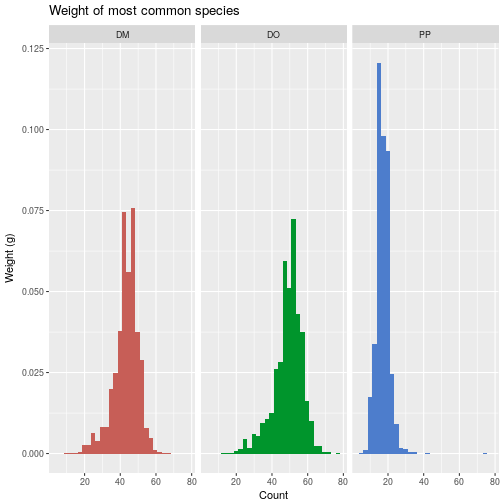
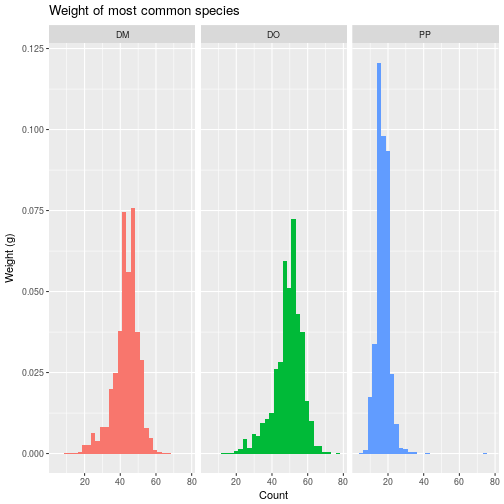
commit by make

Changed region(s): [[0.4464, 0.4167, 0.6548, 0.9226], [0.7143, 0.119, 0.8333, 0.9226], [0.1488, 0.4167, 0.3274, 0.9226]]

diff --git a/docs/_slides/facet.md b/docs/_slides/facet.md
@@ -49,18 +49,14 @@ ggplot(data = animals_common,
 
 ===
 
-Finally, let's show off some additional styling and the very unusual `..density..` argument in the aesthetic.
-The `..` notation signifies that ggplot is to calculate the probability density, rather than plot frequency as before.
+Finally, let's show off some additional styling with `fill` and the very unusual `..density..` argument in the aesthetic.
+The `..` notation is shared by several ggplot functions that perform calculation, in this case the probability density rather than the frequency used before.
 
 
 ~~~r
 ggplot(data = animals_common,
        aes(x = weight, fill = species_id)) +
-  geom_histogram(data = select(animals_common, -month),
-                 aes(y = ..density..),
-                 fill = "black") +
-  geom_histogram(aes(y = ..density..),
-                 alpha = 0.8) +
+  geom_histogram(aes(y = ..density..)) +
   facet_wrap( ~ species_id) +
   labs(title = "Weight of most common species",
        x = "Count",

diff --git a/docs/_slides/layer.md b/docs/_slides/layer.md
@@ -23,6 +23,7 @@ animals <- read.csv("data/animals.csv", na.strings = "") %>%
 
 As a first example, this code plots the inviduals' weights by species:
 
+
 ~~~r
 ggplot(data = animals,
        aes(x = species_id, y = weight)) +
@@ -36,14 +37,6 @@ ggplot(data = animals,
 {:.captioned}
 
 ===
-
-
-~~~r
-ggplot(data = animals,
-       aes(x = species_id, y = weight)) +
-  geom_point()
-~~~
-{:.text-document title="{{ site.handouts }}"}
 
 In `ggplot`, we specify a data frame (`animals`) and an aesthetic mapping (`aes`).
 The `aes` function associates variables from that data frame to visual elements in the plot: here, `species_id` on the x-axis and `weight` on the y-axis.

diff --git a/docs/_slides/model.md b/docs/_slides/model.md
@@ -47,7 +47,7 @@ ggplot(data = animals_dm,
 
 ===
 
-Even better would be to distinguish the two lines by color:
+Even better would be to distinguish everything (points and lines) by color:
 
 
 ~~~r
